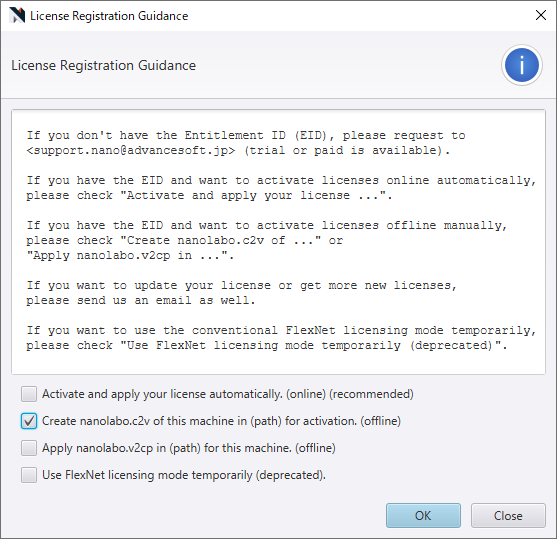
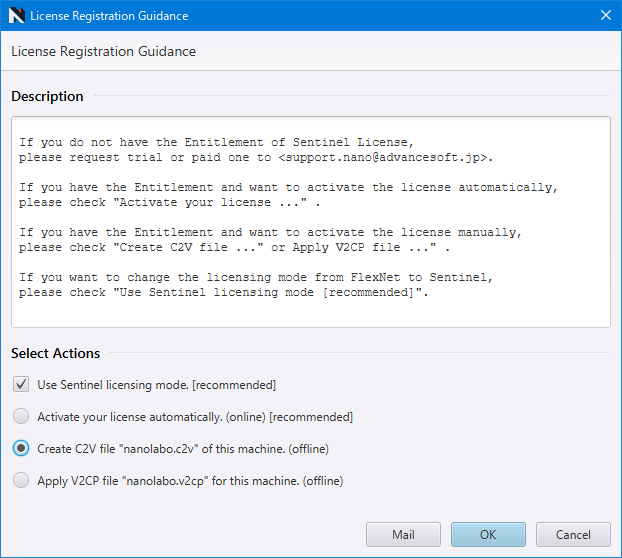
modify license description

Changed region(s): [[0.0, 0.0, 1.0, 0.8905], [0.5799, 0.9202, 1.0, 1.0], [0.0, 0.9796, 0.0305, 1.0]]

diff --git a/docs/source/install/flex.rst b/docs/source/install/flex.rst
@@ -26,10 +26,10 @@ NanoLaboのインストール後またはバージョン3.1へのアップデー
 FlexNetからSentinelへの切り替え
 ++++++++++++++++++++++++++++++++
 
-NanoLaboの画面左上のメニュー |mainmenuicon| の \ :menuselection:`License --> Change to Using Sentinel Mode` \ を選択してください。
+NanoLaboの画面左上のメニュー |mainmenuicon| の :menuselection:`License --> Change to Sentinel` を選択してください。
 設定が変更された旨のダイアログのOKボタンをクリックすると、NanoLaboの再起動を促すダイアログが表示されます。
 Yesボタンをクリック、または手動でNanoLaboを再起動すれば、ライセンスの切り替えは完了です。
-以降のSentinelライセンスの設定方法は、ご利用のOSに対応するインストール手順のページの"ライセンスの設定（オンライン）"（\ :ref:`Windows<licenseonlinew>`\ 、\ :ref:`Linux<licenseonlinel>`\ 、\ :ref:`MacOS<licenseonlinem>`\ ）を参照してください。
+以降のSentinelライセンスの設定方法は、\ :ref:`licenseonline`\ を参照してください。
 
 .. note:: 
 
@@ -42,7 +42,7 @@ SentinelからFlexNetへの切り替え(非推奨)
 
    初回起動時のダイアログで誤ってNoを選択した場合以外では、SentinelからFlexNetへの切り替えは不要です。また、有効なSentinelライセンスをお持ちでない方のみ、以下の操作が可能です。
 
-NanoLaboを起動して、画面左上のメニュー |mainmenuicon| の \ :menuselection:`License --> License Information` \ を選択すると、ライセンスエラーを示すダイアログが表示されます（NanoLaboを起動後、一定時間が経過することでもこのダイアログは表示されます）。ダイアログのOKボタンをクリックした後に表示されるLicense Registration Guidanceの、"Use FlexNet licensing mode temporarily (deprecated)"のチェックボックスにチェックを入れて、OKボタンをクリックしてください。表示されるダイアログに従ってNanoLaboを再起動するとライセンスの切り替えが完了します。
+NanoLaboを起動して、画面左上のメニュー |mainmenuicon| の :menuselection:`License --> Authentication` を選択すると、ライセンスエラーを示すダイアログが表示されます（NanoLaboを起動後、一定時間が経過することでもこのダイアログは表示されます）。ダイアログのOKボタンをクリックした後に表示されるLicense Registration Guidanceの、"Use FlexNet licensing mode temporarily (deprecated)"のチェックボックスにチェックを入れて、OKボタンをクリックしてください。表示されるダイアログに従ってNanoLaboを再起動するとライセンスの切り替えが完了します。
 
 .. _flexw:
 
